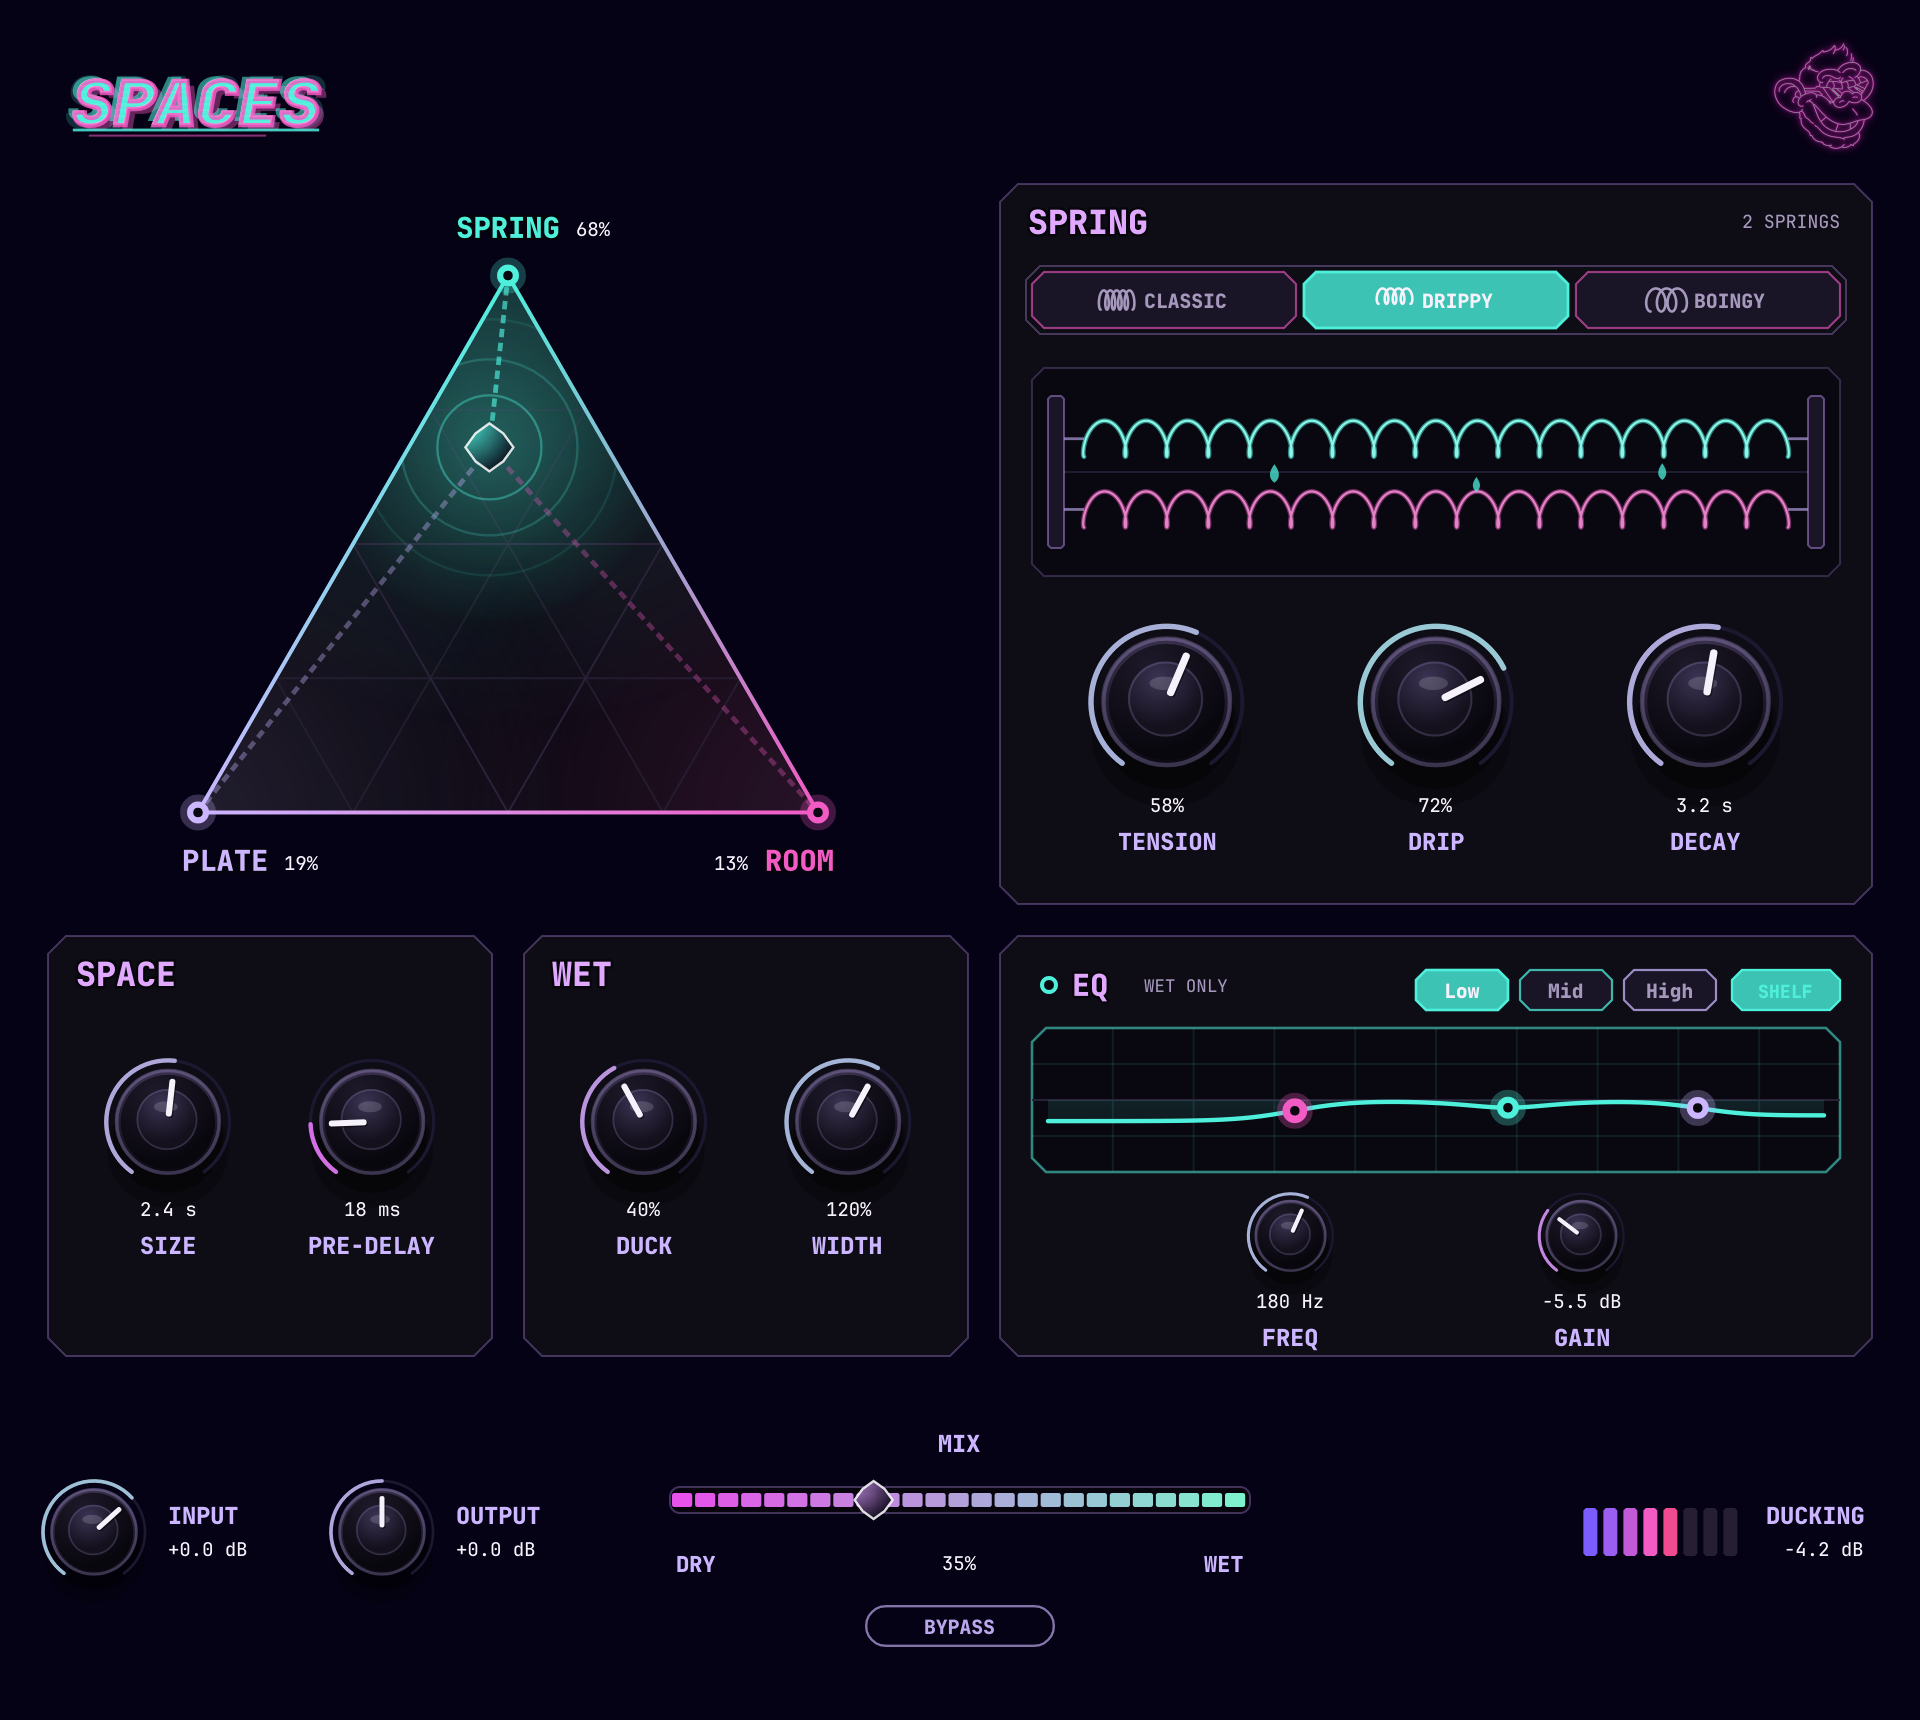
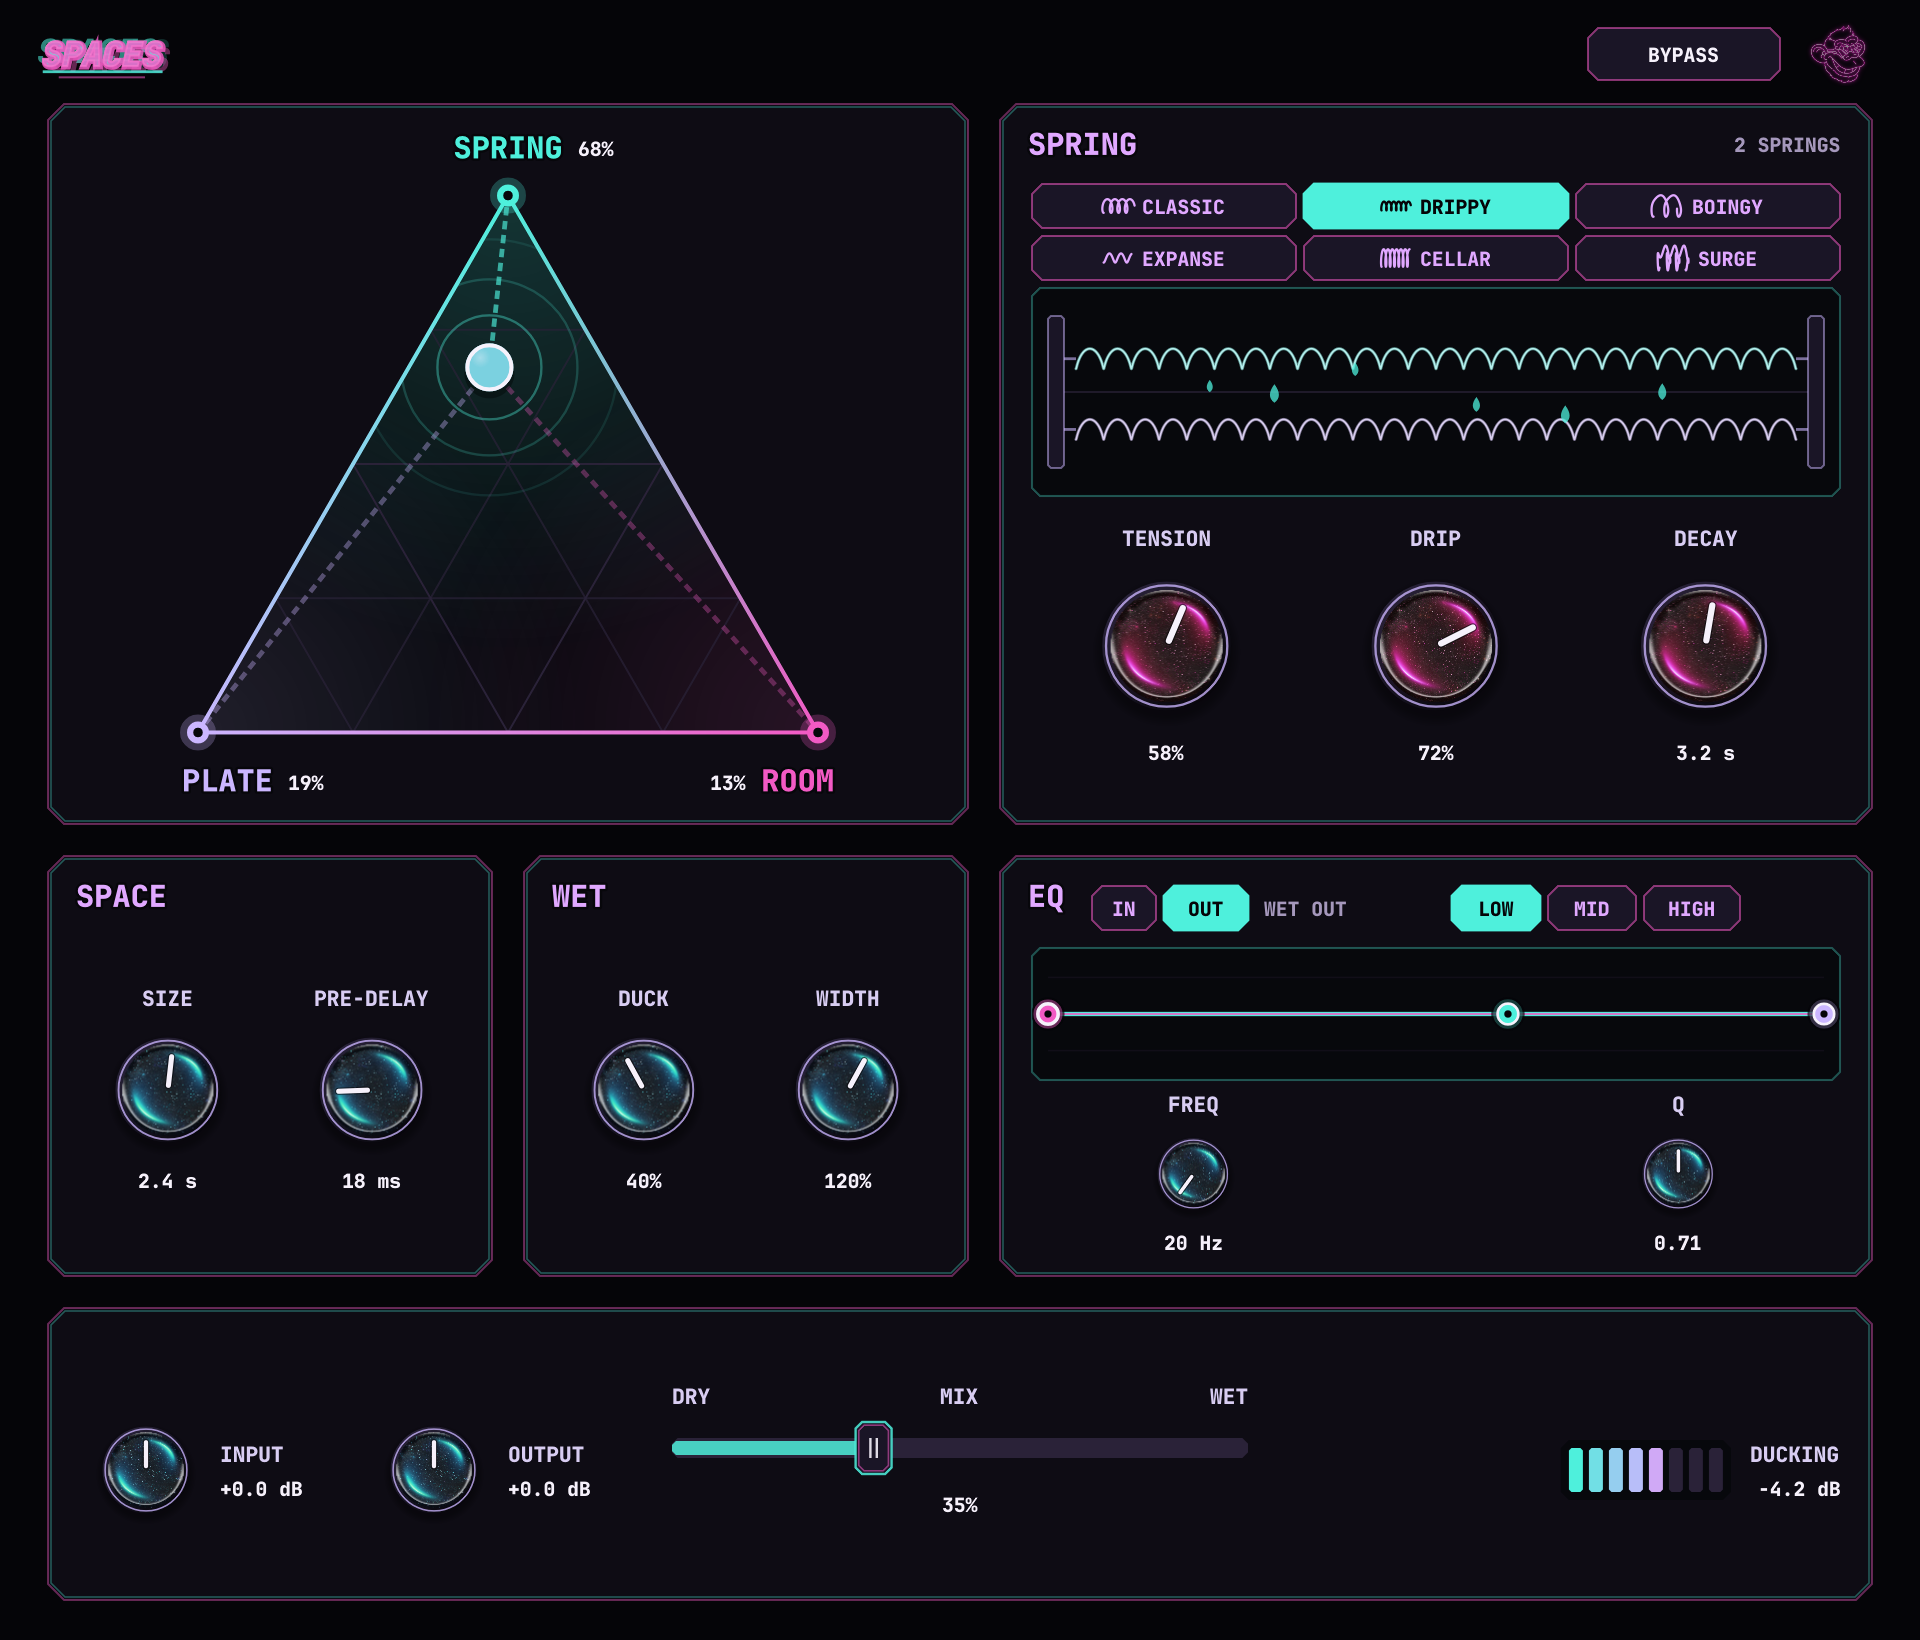
Update the Spaces screenshot and mention six spring types.
The new UI is on the Spaces card and the Full Suite thumbnail, and the card copy no longer says three spring types.

diff --git a/js/products.js b/js/products.js
@@ -148,10 +148,10 @@ const PRODUCTS = [
     name: "Spaces",
     tagline: "A spring-first reverb that stays out of the way of your mix.",
     price: "$30",
-    description: "A spring-first reverb. Blend spring, plate, and room from one triangle pad, with ducking to keep the tail behind your mix.",
+    description: "A spring-first reverb. Blend spring, plate, and room from one triangle pad, with six spring types and ducking to keep the tail behind your mix.",
     features: [
       "Triangle pad that blends Spring, Plate and Room in one move.",
-      "Spring engine with three spring types plus Tension, Drip and Decay.",
+      "Spring engine with six spring types plus Tension, Drip and Decay.",
       "Ducking that pulls the reverb down while the dry signal plays.",
       "3-band EQ on the wet signal only, plus Width.",
       "Size, Pre-delay, Mix, Input and Output controls."
@@ -163,7 +163,7 @@ const PRODUCTS = [
     buyLink: "https://YOURSTORE.lemonsqueezy.com/buy/SPACES-PLACEHOLDER",
     screenshot: "assets/plugins/spaces-ui.png",
     shotWidth: 1920,
-    shotHeight: 1720,
+    shotHeight: 1640,
     featured: false
   }
 ];
